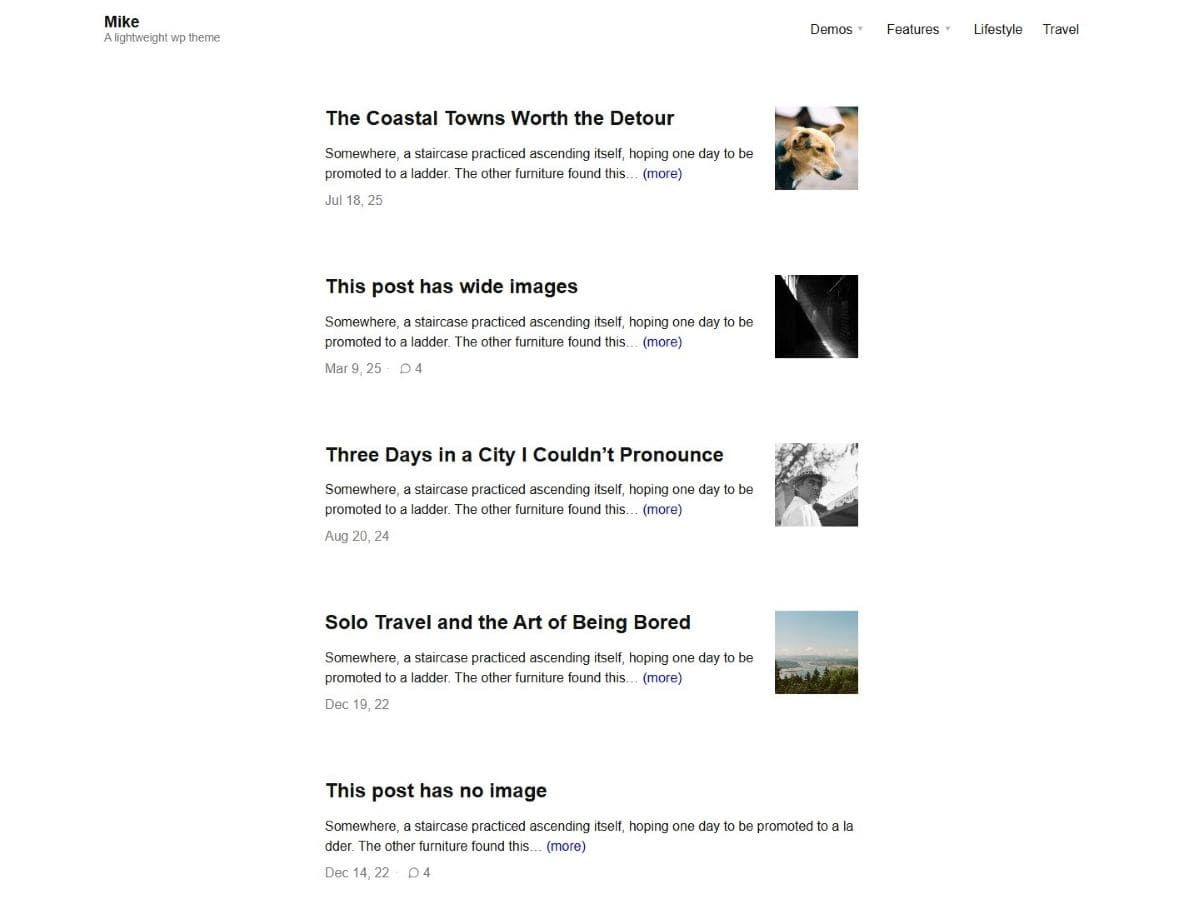
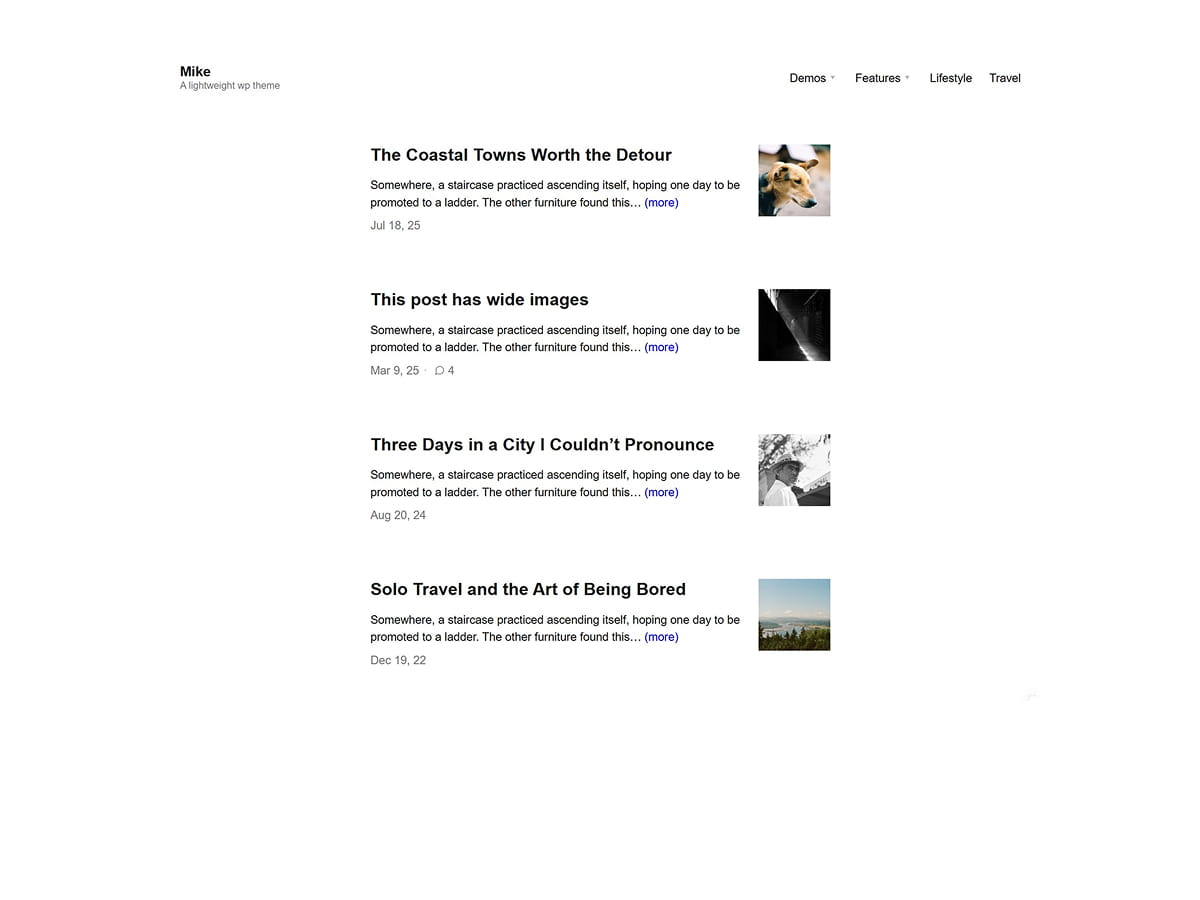
update style + screenshot

diff --git a/style.css b/style.css
@@ -8,7 +8,7 @@ Description: Mike is a personal & blog wordpress theme with minimalist style, ze
 Requires at least: 7.0
 Tested up to: 7.0
 Requires PHP: 7.4
-Version: 1.06
+Version: 1.08
 License: GNU General Public License v2 or later
 License URI: https://www.gnu.org/licenses/gpl-2.0.html
 Text Domain: mike

diff --git a/style.scss b/style.scss
@@ -9,7 +9,7 @@ Description: Mike is a personal & blog wordpress theme with minimalist style, ze
 Requires at least: 7.0
 Tested up to: 7.0
 Requires PHP: 7.4
-Version: 1.06
+Version: 1.08
 License: GNU General Public License v2 or later
 License URI: https://www.gnu.org/licenses/gpl-2.0.html
 Text Domain: mike